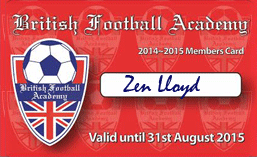
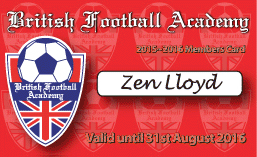
Adidas Shop info
update shops giving discounts!

diff --git a/j/pages/supporters.html b/j/pages/supporters.html
@@ -69,7 +69,7 @@
 										<tr>
 											<td><img src="../../images/mats/spacer.gif" alt="spacer" height="15" width="2" align="left"></td>
 											<td class="boxborder"><b class="red">BFA メンバーカード割引</b>
-												<p><img src="../../images/mats/BFA_card.png" alt="" height="130" width="215" align="right" border="0"><a href="http://www.adidas.com/football/jp/" target="_blank"><img src="../../images/links/adidas.png" alt="" height="60" width="135" align="left" border="0" hspace="10"></a>BFAメンバーの方は、次の<a class="content" href="http://www.adidas.com/jp/shop/adidasshop/locator/index.asp?url=/shop/performance/list/13/only/">adidasパフォーマンスセンター及びコンセプトショップ</a>7店舗にて、20％のディスカウント（割引）が受けられます： <b><a class="content" href="http://www.adidas.com/jp/shop/adidasshop/locator/index.asp?url=/shop/d/5489/" target="_blank">新宿</a>、<a class="content" href="http://www.adidas.com/jp/shop/adidasshop/locator/index.asp?url=/shop/d/1507/" target="_blank">渋谷</a>、<a class="content" href="http://www.adidas.com/jp/apps/shoplocator/?url=/shop/d/1531/" target="_blank">自由が丘</a>、<a class="content" href="http://www.adidas.com/jp/apps/shoplocator/?url=/shop/d/1520/" target="_blank">東京ドーム</a>、　<a class="content" href="http://www.adidas.com/jp/shop/adidasshop/locator/index.asp?url=/shop/d/1499/" target="_blank">池袋、</a><a class="content" href="http://www.adidas.com/jp/shop/adidasshop/locator/index.asp?url=/shop/d/1505/" target="_blank">六本木ヒルズ</a>、<a class="content" href="http://www.adidas.com/jp/shop/adidasshop/locator/index.asp?url=/shop/d/1509/" target="_blank">アクアシティーお台場</a>、</b>。<br>＊adidas RUNBASEなど、上記店舗以外ではディスカウントを行っておりません。また、店舗では、BFAメンバーカードを必ずご提示ください。<br>
+												<p><img src="../../images/mats/BFA_card.png" alt="" height="130" width="215" align="right" border="0"><a href="http://www.adidas.com/football/jp/" target="_blank"><img src="../../images/links/adidas.png" alt="" height="60" width="135" align="left" border="0" hspace="10"></a>BFAメンバーの方は、次の<a class="content" href="http://www.adidas.com/jp/shop/adidasshop/locator/index.asp?url=/shop/performance/list/13/only/">adidasパフォーマンスセンター及びコンセプトショップ</a>7店舗にて、20％のディスカウント（割引）が受けられます： <b><a class="content" href="http://www.adidas.com/jp/shop/adidasshop/locator/index.asp?url=/shop/d/5489/" target="_blank">新宿</a>、<a class="content" href="http://www.adidas.com/jp/shop/adidasshop/locator/index.asp?url=/shop/d/1507/" target="_blank">渋谷</a>、　<a class="content" href="http://www.adidas.com/jp/shop/adidasshop/locator/index.asp?url=/shop/d/1499/" target="_blank">池袋、</a><a class="content" href="http://www.adidas.com/jp/shop/adidasshop/locator/index.asp?url=/shop/d/1505/" target="_blank">六本木ヒルズ</a>、<a class="content" href="http://www.adidas.com/jp/shop/adidasshop/locator/index.asp?url=/shop/d/1509/" target="_blank">アクアシティーお台場</a>、</b>。<br>＊adidas RUNBASEなど、上記店舗以外ではディスカウントを行っておりません。また、店舗では、BFAメンバーカードを必ずご提示ください。<br>
 													<br>
 													<font size="-1">注記： 1) adidasの店舗リストは下記のadidasホームページでご覧頂けます： 店舗によって商品の変更、また店舗の新規オープンや閉店等の変更が生じることがありますので、ご了承ください。<br>
 														2) 割引対象でない商品もありますので、ご留意ください。（mi adidas/ボール/サングラス/ウォッチ等） 詳細については、店舗にて、販売スタッフにお問合わせください。</font></p>

diff --git a/e/pages/supporters.html b/e/pages/supporters.html
@@ -80,7 +80,7 @@
 										<tr>
 											<td></td>
 											<td class="boxborder"><b class="red">BFA Member Card Discounts</b>
-												<p><a href="http://www.adidas.com/football/jp/" target="_blank"><img src="../../images/links/adidas.png" alt="" height="60" width="135" align="left" border="0" hspace="10"></a><a href="http://www.facebook.com/pages/British-Football-Academy/80480247411"><img src="../../images/mats/BFA_card.png" alt="" height="151" width="248" align="right" border="0"></a>BFA members will receive a <strong>20% discount </strong>at the following <strong>7</strong> <strong><a class="content" href="http://www.adidas.com/jp/shop/adidasshop/locator/index.asp?url=/shop/performance/list/13/only/" target="_blank">adidas shops</a></strong>: <strong><a class="content" href="http://www.adidas.com/jp/shop/adidasshop/locator/index.asp?url=/shop/d/1505/" target="_blank">Roppongi Hills</a>, <a class="content" href="http://www.adidas.com/jp/shop/adidasshop/locator/index.asp?url=/shop/d/1509/" target="_blank">Aqua City Odaiba</a>, <a class="content" href="http://www.adidas.com/jp/shop/adidasshop/locator/index.asp?url=/shop/d/1507/" target="_blank">Shibuya</a>, <a class="content" href="http://www.adidas.com/jp/shop/adidasshop/locator/index.asp?url=/shop/d/5489/" target="_blank">Shinjuku</a>, <a class="content" href="http://www.adidas.com/jp/shop/adidasshop/locator/index.asp?url=/shop/d/1499/" target="_blank">Ikebukuro</a>, <a class="content" href="http://www.adidas.com/jp/apps/shoplocator/?url=/shop/d/1520/" target="_blank">Tokyo Dome</a> and <a class="content" href="http://www.adidas.com/jp/apps/shoplocator/?url=/shop/d/1531/" target="_blank">Jiyugaoka</a></strong>.<br>
+												<p><a href="http://www.adidas.com/football/jp/" target="_blank"><img src="../../images/links/adidas.png" alt="" height="60" width="135" align="left" border="0" hspace="10"></a><a href="http://www.facebook.com/pages/British-Football-Academy/80480247411"><img src="../../images/mats/BFA_card.png" alt="" height="151" width="248" align="right" border="0"></a>BFA members will receive a <strong>20% discount </strong>at the following <strong>5</strong> <strong><a class="content" href="http://www.adidas.com/jp/shop/adidasshop/locator/index.asp?url=/shop/performance/list/13/only/" target="_blank">adidas shops</a></strong>: <strong><a class="content" href="http://www.adidas.com/jp/shop/adidasshop/locator/index.asp?url=/shop/d/1505/" target="_blank">Roppongi Hills</a>, <a class="content" href="http://www.adidas.com/jp/shop/adidasshop/locator/index.asp?url=/shop/d/1509/" target="_blank">Aqua City Odaiba</a>, <a class="content" href="http://www.adidas.com/jp/shop/adidasshop/locator/index.asp?url=/shop/d/1507/" target="_blank">Shibuya</a>, <a class="content" href="http://www.adidas.com/jp/shop/adidasshop/locator/index.asp?url=/shop/d/5489/" target="_blank">Shinjuku</a> and <a class="content" href="http://www.adidas.com/jp/shop/adidasshop/locator/index.asp?url=/shop/d/1499/" target="_blank">Ikebukuro</a></strong>.<br>
 													The offer is for these shops only (not adidas RUNBASE) &amp; BFA members MUST show their members cards to receive their discount.<br>
 													<br>
 													<font size="-1">Please note:<br>

diff --git a/e/pages/venueissh.html b/e/pages/venueissh.html
@@ -143,7 +143,7 @@
 												<p><b>By Train</b><br>
 													Take the Hibiya line to Hiroo Station and go out of the north exit (Exit 3). It is on the opposite side of the road, just up the side road</p>
 												<p><b>By Car</b><br>
-													Limited parking is available at the school in the <b>lower</b> car park. Do not drive right up to the school itself though &amp; please be courteous to the gaurds at the school.<br>
+													Unfortunatel parking is not permitted at the school although dropping off &amp; picking up kids is fine. Do not drive right up to the school itself though &amp; please be courteous to the gaurds at the school.<br>
 												</p>
 											</td>
 											<td><img src="../../images/mats/spacer.gif" alt="spacer" height="15" width="2" align="left"></td>
